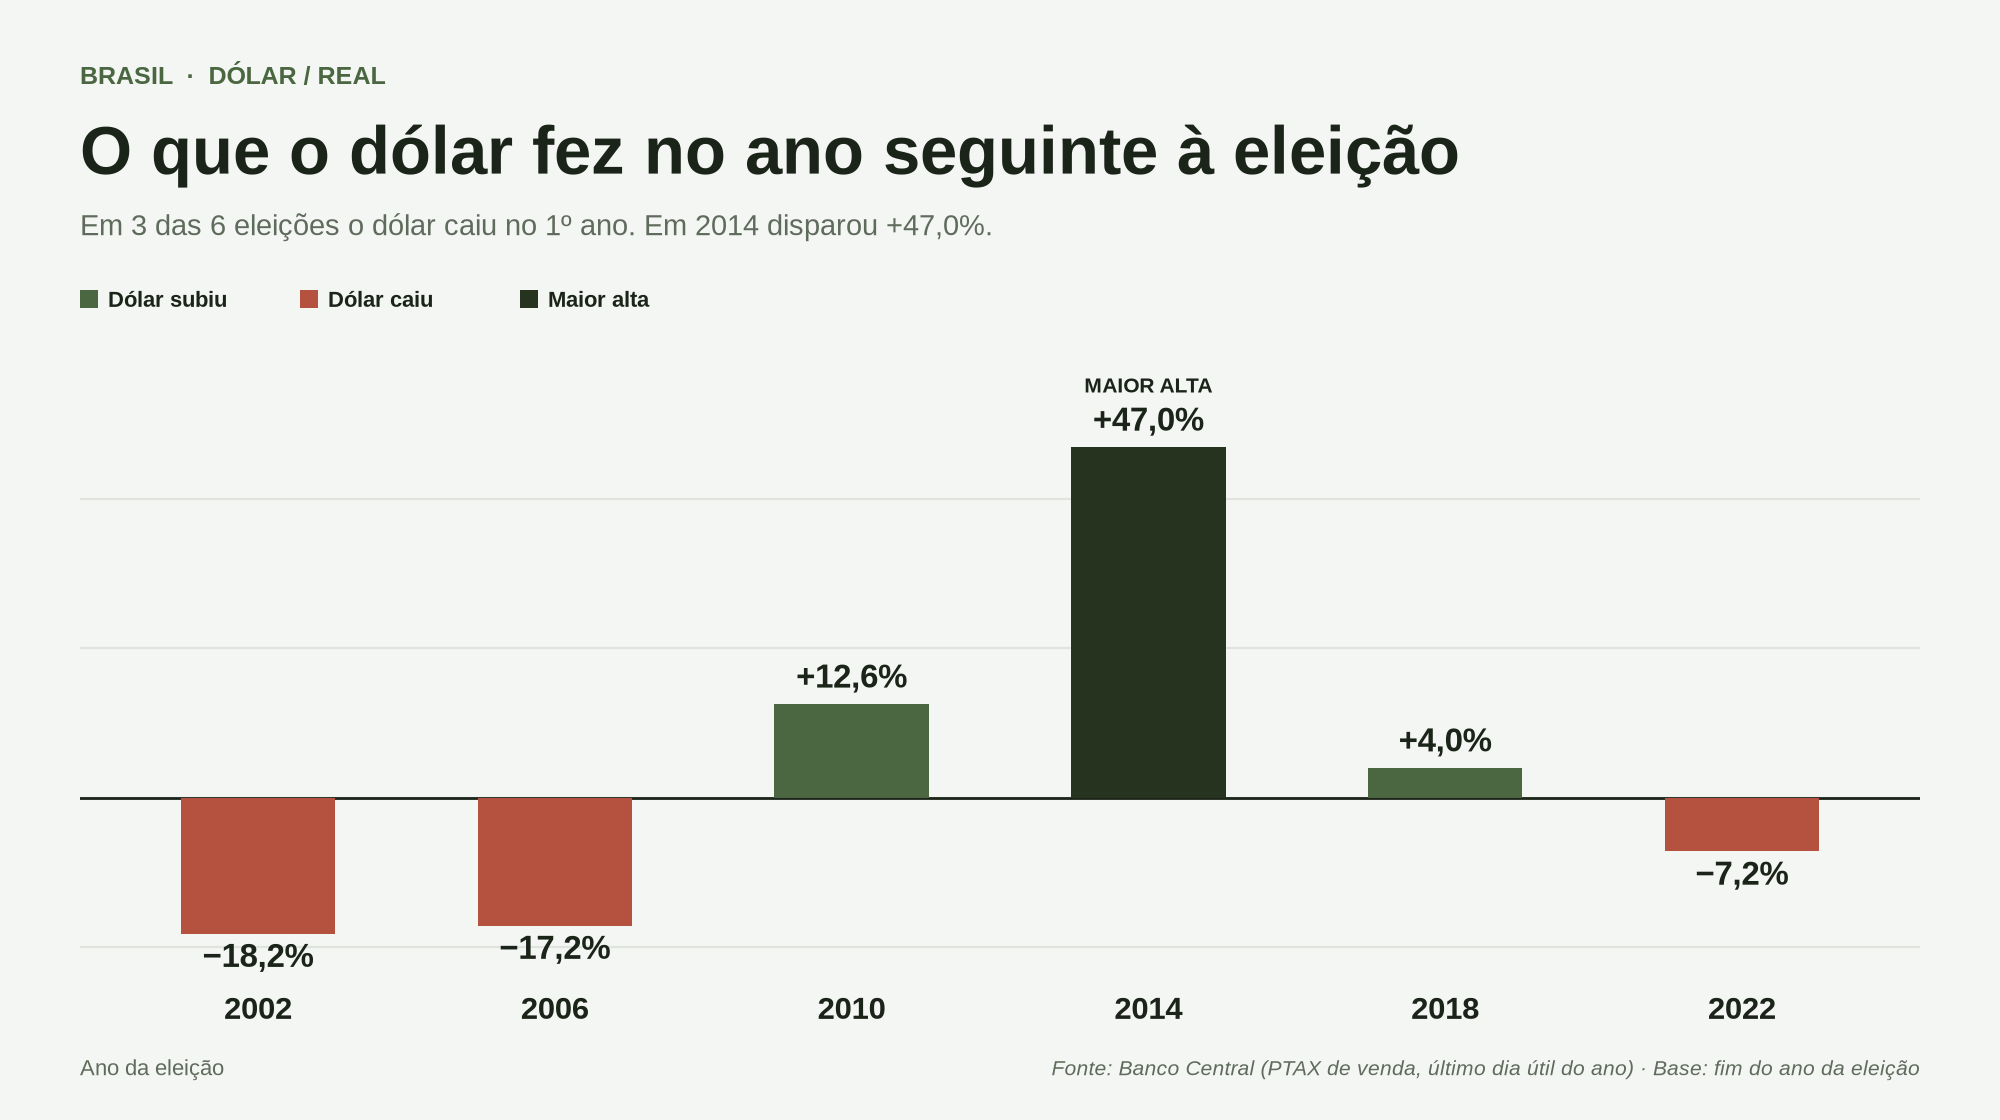
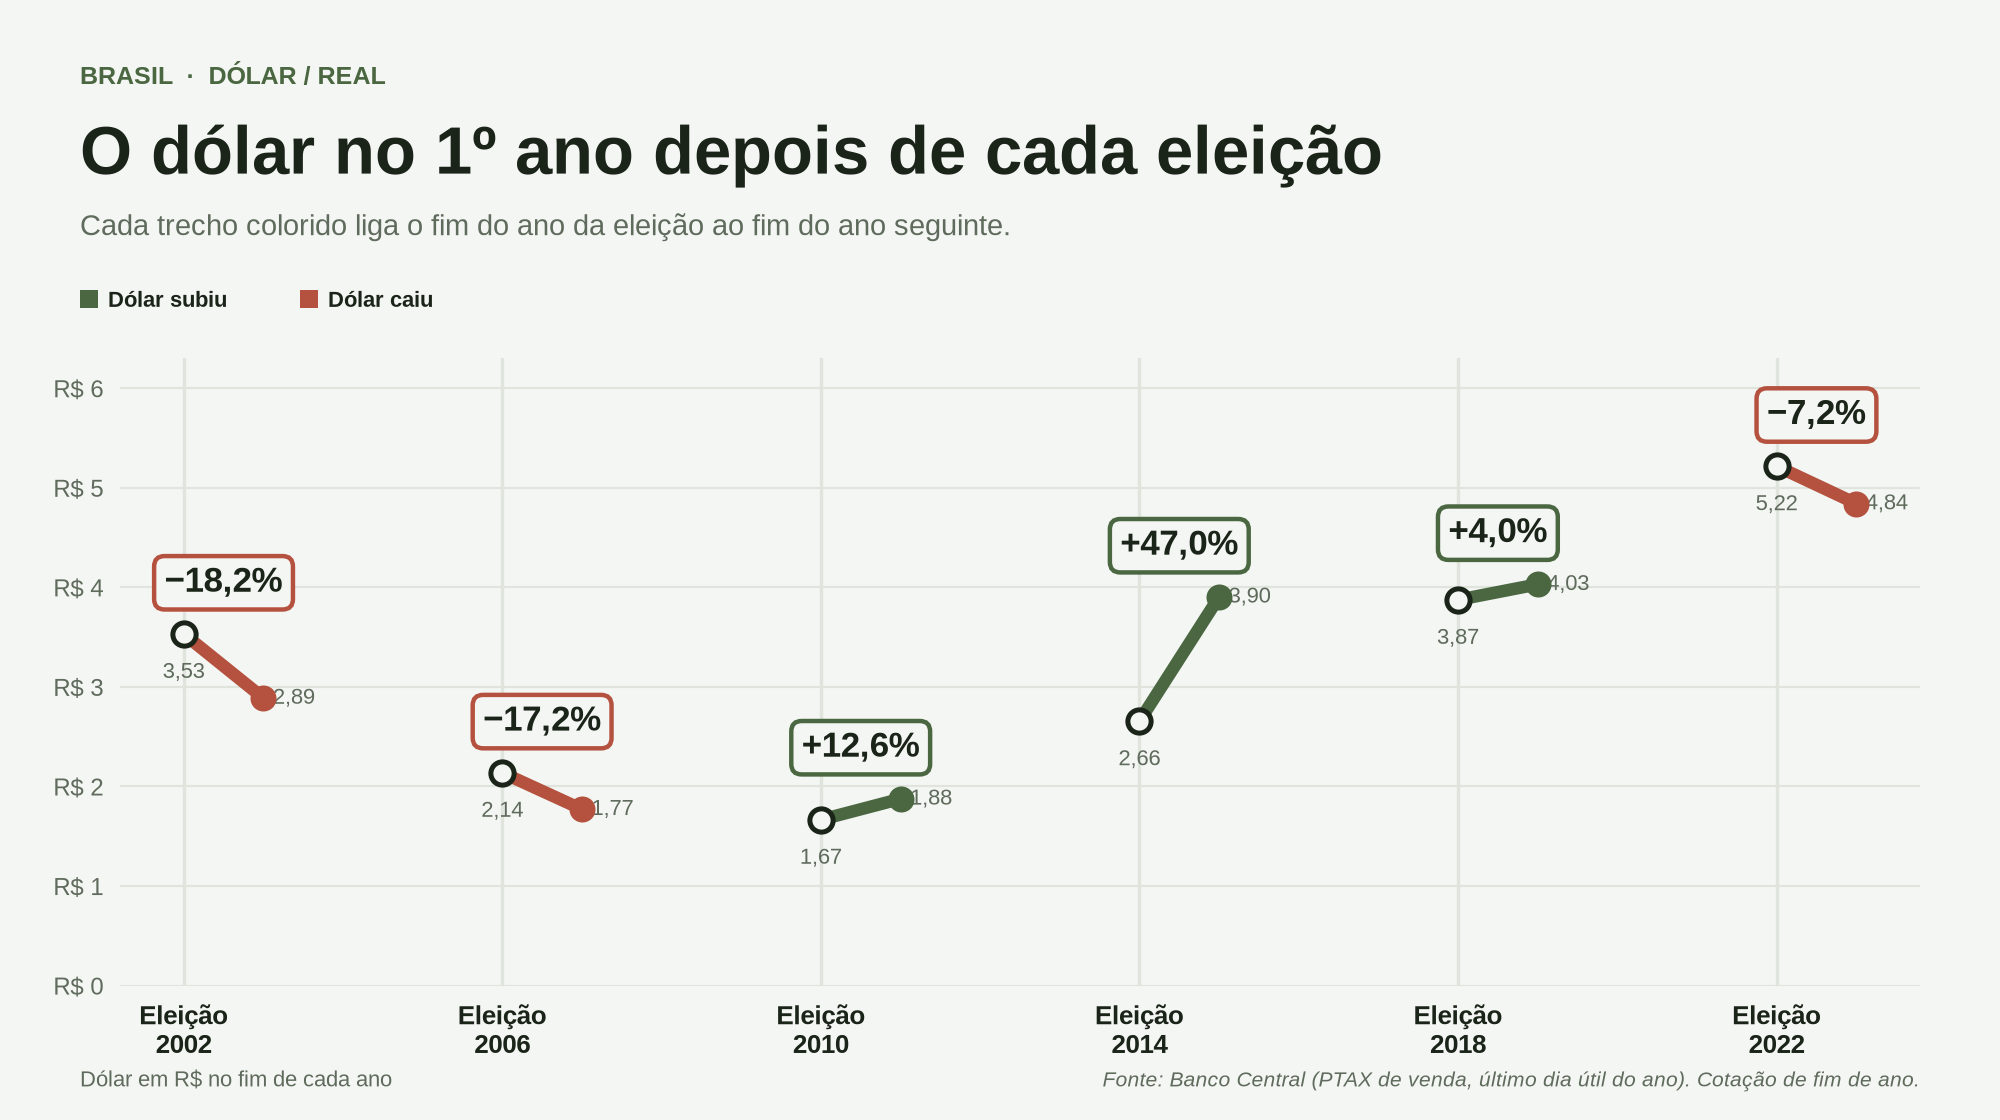
Gráficos em formato de linha do tempo com ciclos de eleição
Claude-Session: https://claude.ai/code/session_0199Y78iJYXbJq94ojXAjU9F

diff --git a/dolar_pos_eleicao.py b/dolar_pos_eleicao.py
@@ -27,47 +27,65 @@ UP, DOWN, DEST = "#4a6741", "#b5523f", "#25331f"
 fam = "Liberation Sans" if any("Liberation Sans" in f.name for f in fm.fontManager.ttflist) else "DejaVu Sans"
 plt.rcParams["font.family"] = fam
 
-def grafico(dados, kicker, titulo, sub, arq, destaque, rotulo_dest, nota_dest=None):
+def base(kicker, titulo, sub, legenda):
     fig = plt.figure(figsize=(10, 5.6), dpi=200, facecolor=BG)
     fig.text(.04, .925, kicker, color=UP, fontsize=9, fontweight="bold")
     fig.text(.04, .845, titulo, color=INK, fontsize=24, fontweight="bold")
     fig.text(.04, .79, sub, color=MUTED, fontsize=10.5)
-    # legenda
-    for x, cor, lab in ((.04, UP, "Dólar subiu"), (.15, DOWN, "Dólar caiu"), (.26, DEST, rotulo_dest)):
+    x = .04
+    for cor, lab, w in legenda:
         fig.patches.append(plt.Rectangle((x, .725), .009, .016, transform=fig.transFigure, fc=cor))
         fig.text(x + .014, .726, lab, color=INK, fontsize=8, fontweight="bold")
-    ax = fig.add_axes([.04, .13, .92, .54], facecolor=BG)
-    xs = list(range(len(dados))); vals = list(dados.values())
-    top, bot = max(max(vals) * 1.22, 5), min(min(vals) * 1.30, -5)
-    ax.set_ylim(bot, top); ax.set_xlim(-.6, len(xs) - .4)
-    step = 20
-    for t in range(int(bot // step) * step, int(top // step + 1) * step + 1, step):
-        ax.axhline(t, color=GRID, lw=.8, zorder=0)
-    ax.axhline(0, color=INK, lw=1, zorder=1)
-    for x, (a, v) in zip(xs, dados.items()):
-        cor = DEST if a == destaque else (UP if v > 0 else DOWN)
-        ax.bar(x, v, width=.52, color=cor, zorder=2)
-        txt = f"{v:+.1f}%".replace(".", ",").replace("-", "\u2212")
-        off = (top - bot) * .015
-        ax.text(x, v + (off if v > 0 else -off), txt, ha="center",
-                va="bottom" if v > 0 else "top", color=INK, fontsize=12, fontweight="bold")
-        if a == destaque and nota_dest:
-            ax.text(x, (v + (off * 5.5 if v > 0 else -off * 5.5)), nota_dest, ha="center",
-                    va="bottom" if v > 0 else "top", color=INK, fontsize=7.5, fontweight="bold")
-    ax.set_xticks(xs); ax.set_xticklabels([str(a) for a in dados], color=INK, fontsize=11, fontweight="bold")
-    ax.tick_params(axis="x", length=0, pad=8)
-    ax.set_yticks([])
+        x += w
+    ax = fig.add_axes([.06, .12, .90, .56], facecolor=BG)
+    ax.set_xlim(2001.2, 2023.8); ax.set_ylim(0, 6.3)
+    ax.set_xticks(range(2002, 2024, 4) if False else [2002, 2006, 2010, 2014, 2018, 2022])
+    ax.set_xticklabels(["Eleição\n2002", "Eleição\n2006", "Eleição\n2010", "Eleição\n2014", "Eleição\n2018", "Eleição\n2022"],
+                       color=INK, fontsize=9.5, fontweight="bold")
+    ax.set_yticks(range(0, 7)); ax.set_yticklabels([f"R$ {t}" for t in range(0, 7)], color=MUTED, fontsize=8.5)
+    ax.tick_params(length=0, pad=6)
+    ax.grid(axis="y", color=GRID, lw=.8); ax.set_axisbelow(True)
     for sp in ax.spines.values(): sp.set_visible(False)
-    fig.text(.96, .04, "Fonte: Banco Central (PTAX de venda, último dia útil do ano) · Base: fim do ano da eleição",
+    fig.text(.96, .03, "Fonte: Banco Central (PTAX de venda, último dia útil do ano). Cotação de fim de ano.",
              color=MUTED, fontsize=7.5, ha="right", style="italic")
-    fig.text(.04, .04, "Ano da eleição", color=MUTED, fontsize=8)
-    fig.savefig(arq, facecolor=BG); plt.close(fig)
+    fig.text(.04, .03, "Dólar em R$ no fim de cada ano", color=MUTED, fontsize=8)
+    return fig, ax
 
-grafico(um_ano, "BRASIL  ·  DÓLAR / REAL",
-        "O que o dólar fez no ano seguinte à eleição",
-        "Em 3 das 6 eleições o dólar caiu no 1º ano. Em 2014 disparou +47,0%.",
-        "dolar_1_ano_pos_eleicao.png", 2014, "Maior alta", "MAIOR ALTA")
-grafico(quatro, "BRASIL  ·  DÓLAR / REAL",
-        "Ciclos de 4 anos: o dólar subiu nos 3 últimos",
-        "Caiu nos ciclos de 2002 e 2006; desde 2010 sobe mais de 30% a cada mandato. O ciclo de 2022 ainda não terminou.",
-        "dolar_ciclo_4_anos.png", 2010, "Maior alta", "MAIOR ALTA")
+def rot(v): return f"{v:+.1f}%".replace(".", ",").replace("-", "\u2212")
+
+# ---- 1) Linha do tempo: 1 ano após cada eleição
+fig, ax = base("BRASIL  ·  DÓLAR / REAL", "O dólar no 1º ano depois de cada eleição",
+               "Cada trecho colorido liga o fim do ano da eleição ao fim do ano seguinte.",
+               [(UP, "Dólar subiu", .11), (DOWN, "Dólar caiu", .11)])
+for a in anos:
+    v = um_ano[a]; c = UP if v > 0 else DOWN
+    ax.axvline(a, color=GRID, lw=1.2, zorder=1)
+    ax.plot([a, a + 1], [fim_ano[a], fim_ano[a + 1]], color=c, lw=4.5, solid_capstyle="round", zorder=3)
+    ax.scatter([a], [fim_ano[a]], s=70, color=BG, edgecolor=INK, lw=1.8, zorder=4)
+    ax.scatter([a + 1], [fim_ano[a + 1]], s=70, color=c, edgecolor=c, zorder=4)
+    y = max(fim_ano[a], fim_ano[a + 1]) + .35
+    ax.annotate(rot(v), (a + .5, y), ha="center", va="bottom", fontsize=12.5, fontweight="bold",
+                color=INK, bbox=dict(boxstyle="round,pad=.3", fc=BG, ec=c, lw=1.6), zorder=5)
+    ax.text(a, fim_ano[a] - .28, f"{fim_ano[a]:.2f}".replace(".", ","), ha="center", va="top", fontsize=8, color=MUTED)
+    ax.text(a + 1.12, fim_ano[a + 1], f"{fim_ano[a + 1]:.2f}".replace(".", ","), ha="left", va="center", fontsize=8, color=MUTED)
+fig.savefig("dolar_1_ano_pos_eleicao.png", facecolor=BG); plt.close(fig)
+
+# ---- 2) Linha do tempo: ciclos de 4 anos
+fig, ax = base("BRASIL  ·  DÓLAR / REAL", "Ciclos de 4 anos: o dólar subiu nos 3 últimos",
+               "Do fim de um ano eleitoral ao fim do seguinte. O ciclo de 2022 ainda não terminou.",
+               [(UP, "Dólar subiu", .11), (DOWN, "Dólar caiu", .11), (MUTED, "Em curso", .1)])
+for k, a in enumerate(anos[:-1]):
+    b = anos[k + 1]; v = quatro[a]; c = UP if v > 0 else DOWN
+    if k % 2 == 0: ax.axvspan(a, b, color="#eaeee7", zorder=0)
+    ax.plot([a, b], [fim_ano[a], fim_ano[b]], color=c, lw=4.5, solid_capstyle="round", zorder=3)
+    ax.annotate(rot(v), ((a + b) / 2, 5.95), ha="center", va="top", fontsize=13.5, fontweight="bold",
+                color=INK, bbox=dict(boxstyle="round,pad=.35", fc=BG, ec=c, lw=1.8), zorder=5)
+    ax.text((a + b) / 2, 5.3, f"{a} \u2192 {b}", ha="center", va="top", fontsize=8.5, color=MUTED)
+ax.plot([2022, 2023], [fim_ano[2022], fim_ano[2023]], color=MUTED, lw=3.5, ls=(0, (2, 2)), zorder=3)
+ax.axvspan(2022, 2023.8, color="#eaeee7", zorder=0)
+ax.text(2023.1, 5.3, "2022 \u2192 ?", ha="center", va="top", fontsize=8.5, color=MUTED)
+ax.text(2023.1, 5.95, "em curso", ha="center", va="top", fontsize=11, fontweight="bold", color=MUTED)
+for a in anos:
+    ax.scatter([a], [fim_ano[a]], s=80, color=BG, edgecolor=INK, lw=2, zorder=4)
+    ax.text(a, fim_ano[a] - .3, f"{fim_ano[a]:.2f}".replace(".", ","), ha="center", va="top", fontsize=8.5, color=INK, fontweight="bold")
+fig.savefig("dolar_ciclo_4_anos.png", facecolor=BG); plt.close(fig)
